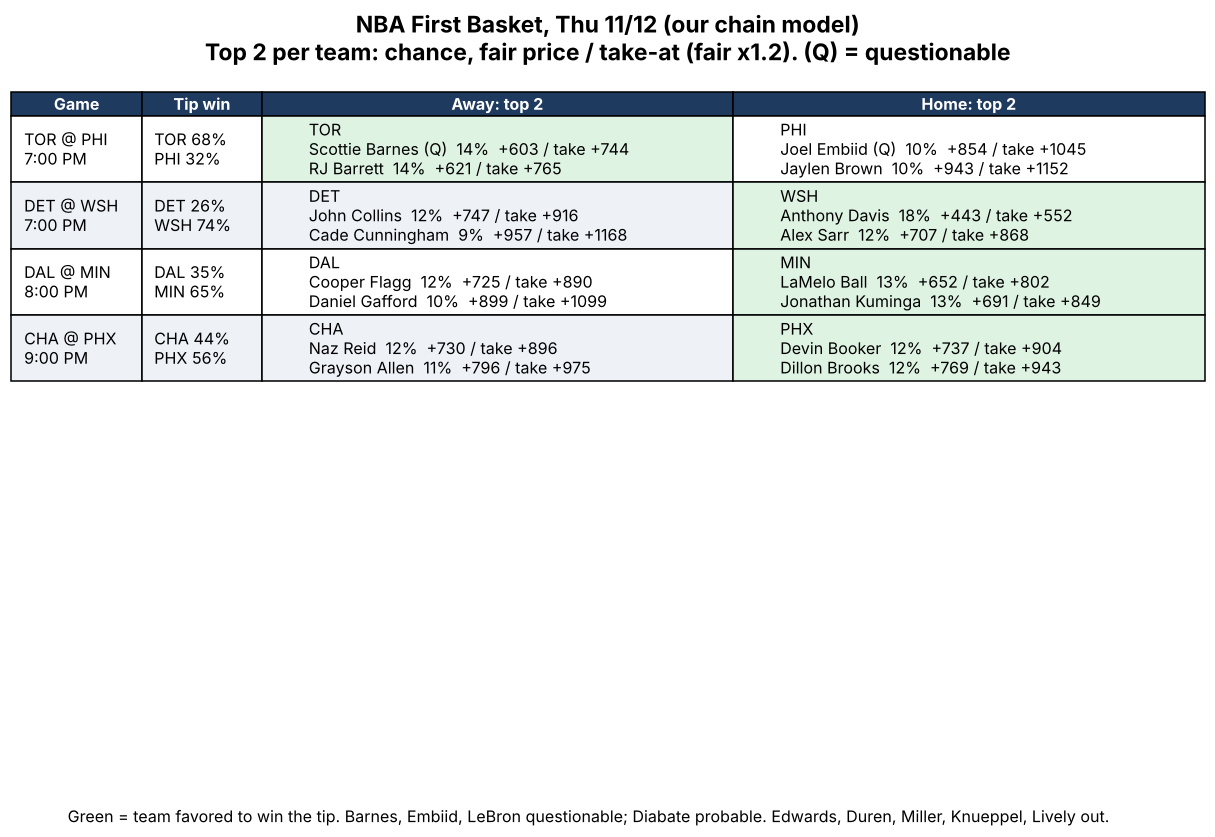
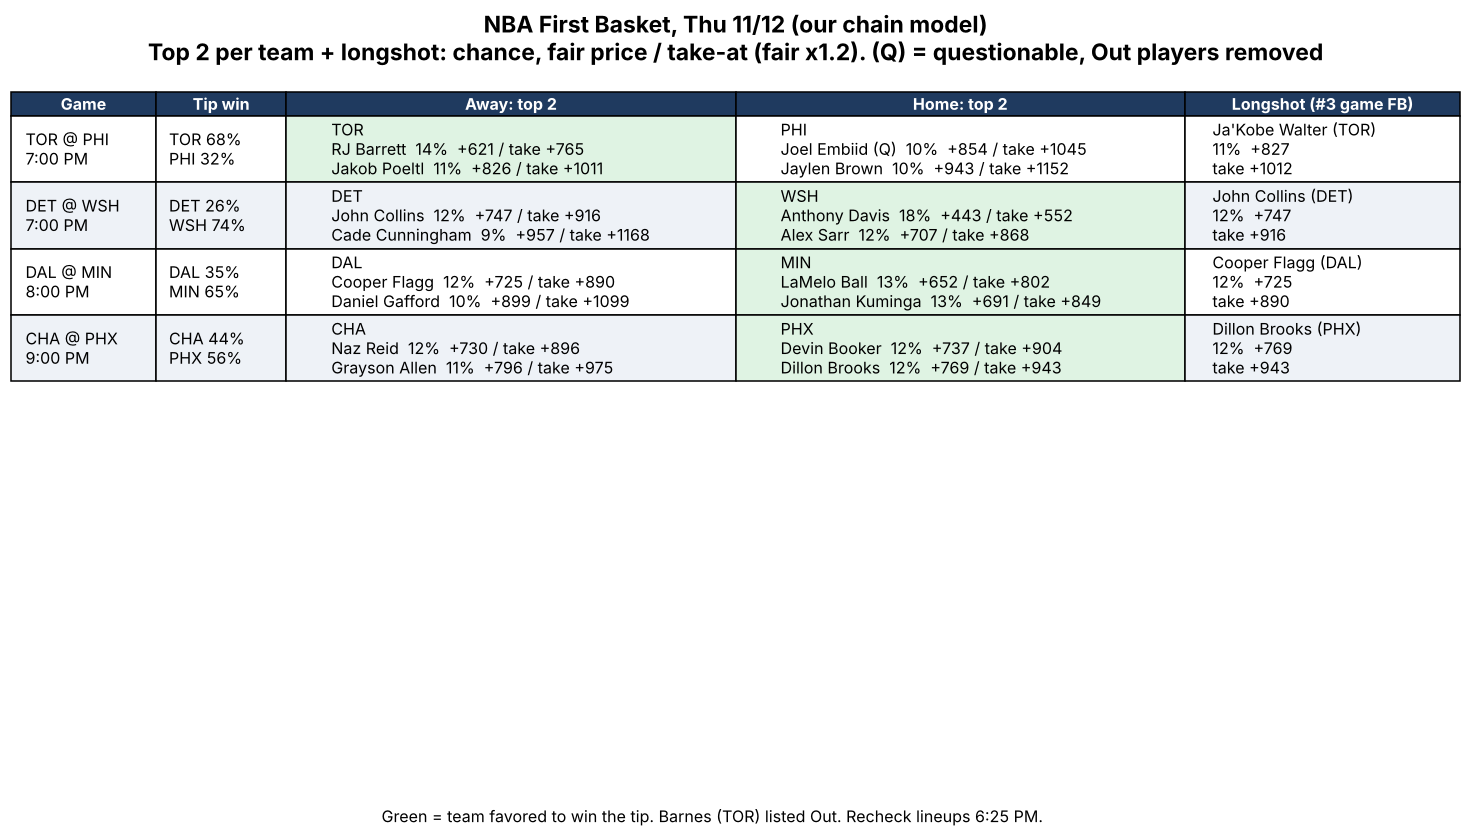
FB chart: drop Out players, add longshot (#3) column; 11/12 chart rebuilt
Claude-Session: https://claude.ai/code/session_01TQWUAJSyeczoh1eaRjRwmB

Changed region(s): [[0.0, 0.0, 1.0, 0.4659], [0.0609, 0.963, 0.9136, 0.994]]

diff --git a/analysis/nba/make_fb_chart.py b/analysis/nba/make_fb_chart.py
@@ -6,15 +6,20 @@ date=sys.argv[1]; games=[(a,h,t,int(p)) for a,h,t,p in (g.split(',') for g in sy
 note=sys.argv[3] if len(sys.argv)>3 else ""
 d=json.load(open('analysis/nba/out/fb_candidates.json'))
 t=collections.defaultdict(list)
+d=[r for r in d if r.get('inj')!='Out']
 for r in d: t[r['tm']].append(r)
 for v in t.values(): v.sort(key=lambda r:-r['p_v2'])
 take=lambda f: f"+{round(((int(f)/100+1)*1.2-1)*100)}"
 def cell(tm):
     return tm+"\n"+"\n".join(f"{r['player']}{' (Q)' if r['inj'] else ''}  {r['p_v2']*100:.0f}%  {r['fair_v2']} / take {take(r['fair_v2'].strip('+'))}" for r in t[tm][:2])
-rows=[[f"{a} @ {h}\n{tm} PM",f"{a} {ap}%\n{h} {100-ap}%",cell(a),cell(h)] for a,h,tm,ap in games]
-fig,ax=plt.subplots(figsize=(14,1.6*len(games)+1.6)); ax.axis('off')
-ax.set_title(f"NBA First Basket, {date} (our chain model)\nTop 2 per team: chance, fair price / take-at (fair x1.2). (Q) = questionable",fontsize=15,fontweight='bold',pad=12)
-tb=ax.table(cellText=rows,colLabels=["Game","Tip win","Away: top 2","Home: top 2"],colWidths=[0.11,0.1,0.395,0.395],loc='upper center',cellLoc='left')
+def ls(a,h):
+    g=sorted(t[a]+t[h],key=lambda r:-r['p_v2'])
+    r=g[2]
+    return f"{r['player']} ({r['tm']})\n{r['p_v2']*100:.0f}%  {r['fair_v2']}\ntake {take(r['fair_v2'].strip('+'))}"
+rows=[[f"{a} @ {h}\n{tm} PM",f"{a} {ap}%\n{h} {100-ap}%",cell(a),cell(h),ls(a,h)] for a,h,tm,ap in games]
+fig,ax=plt.subplots(figsize=(17,1.6*len(games)+1.6)); ax.axis('off')
+ax.set_title(f"NBA First Basket, {date} (our chain model)\nTop 2 per team + longshot: chance, fair price / take-at (fair x1.2). (Q) = questionable, Out players removed",fontsize=15,fontweight='bold',pad=12)
+tb=ax.table(cellText=rows,colLabels=["Game","Tip win","Away: top 2","Home: top 2","Longshot (#3 game FB)"],colWidths=[0.1,0.09,0.31,0.31,0.19],loc='upper center',cellLoc='left')
 tb.auto_set_font_size(False); tb.set_fontsize(10.5)
 for (r,c),cl in tb.get_celld().items():
     cl.set_height(0.098 if r>0 else 0.035)
